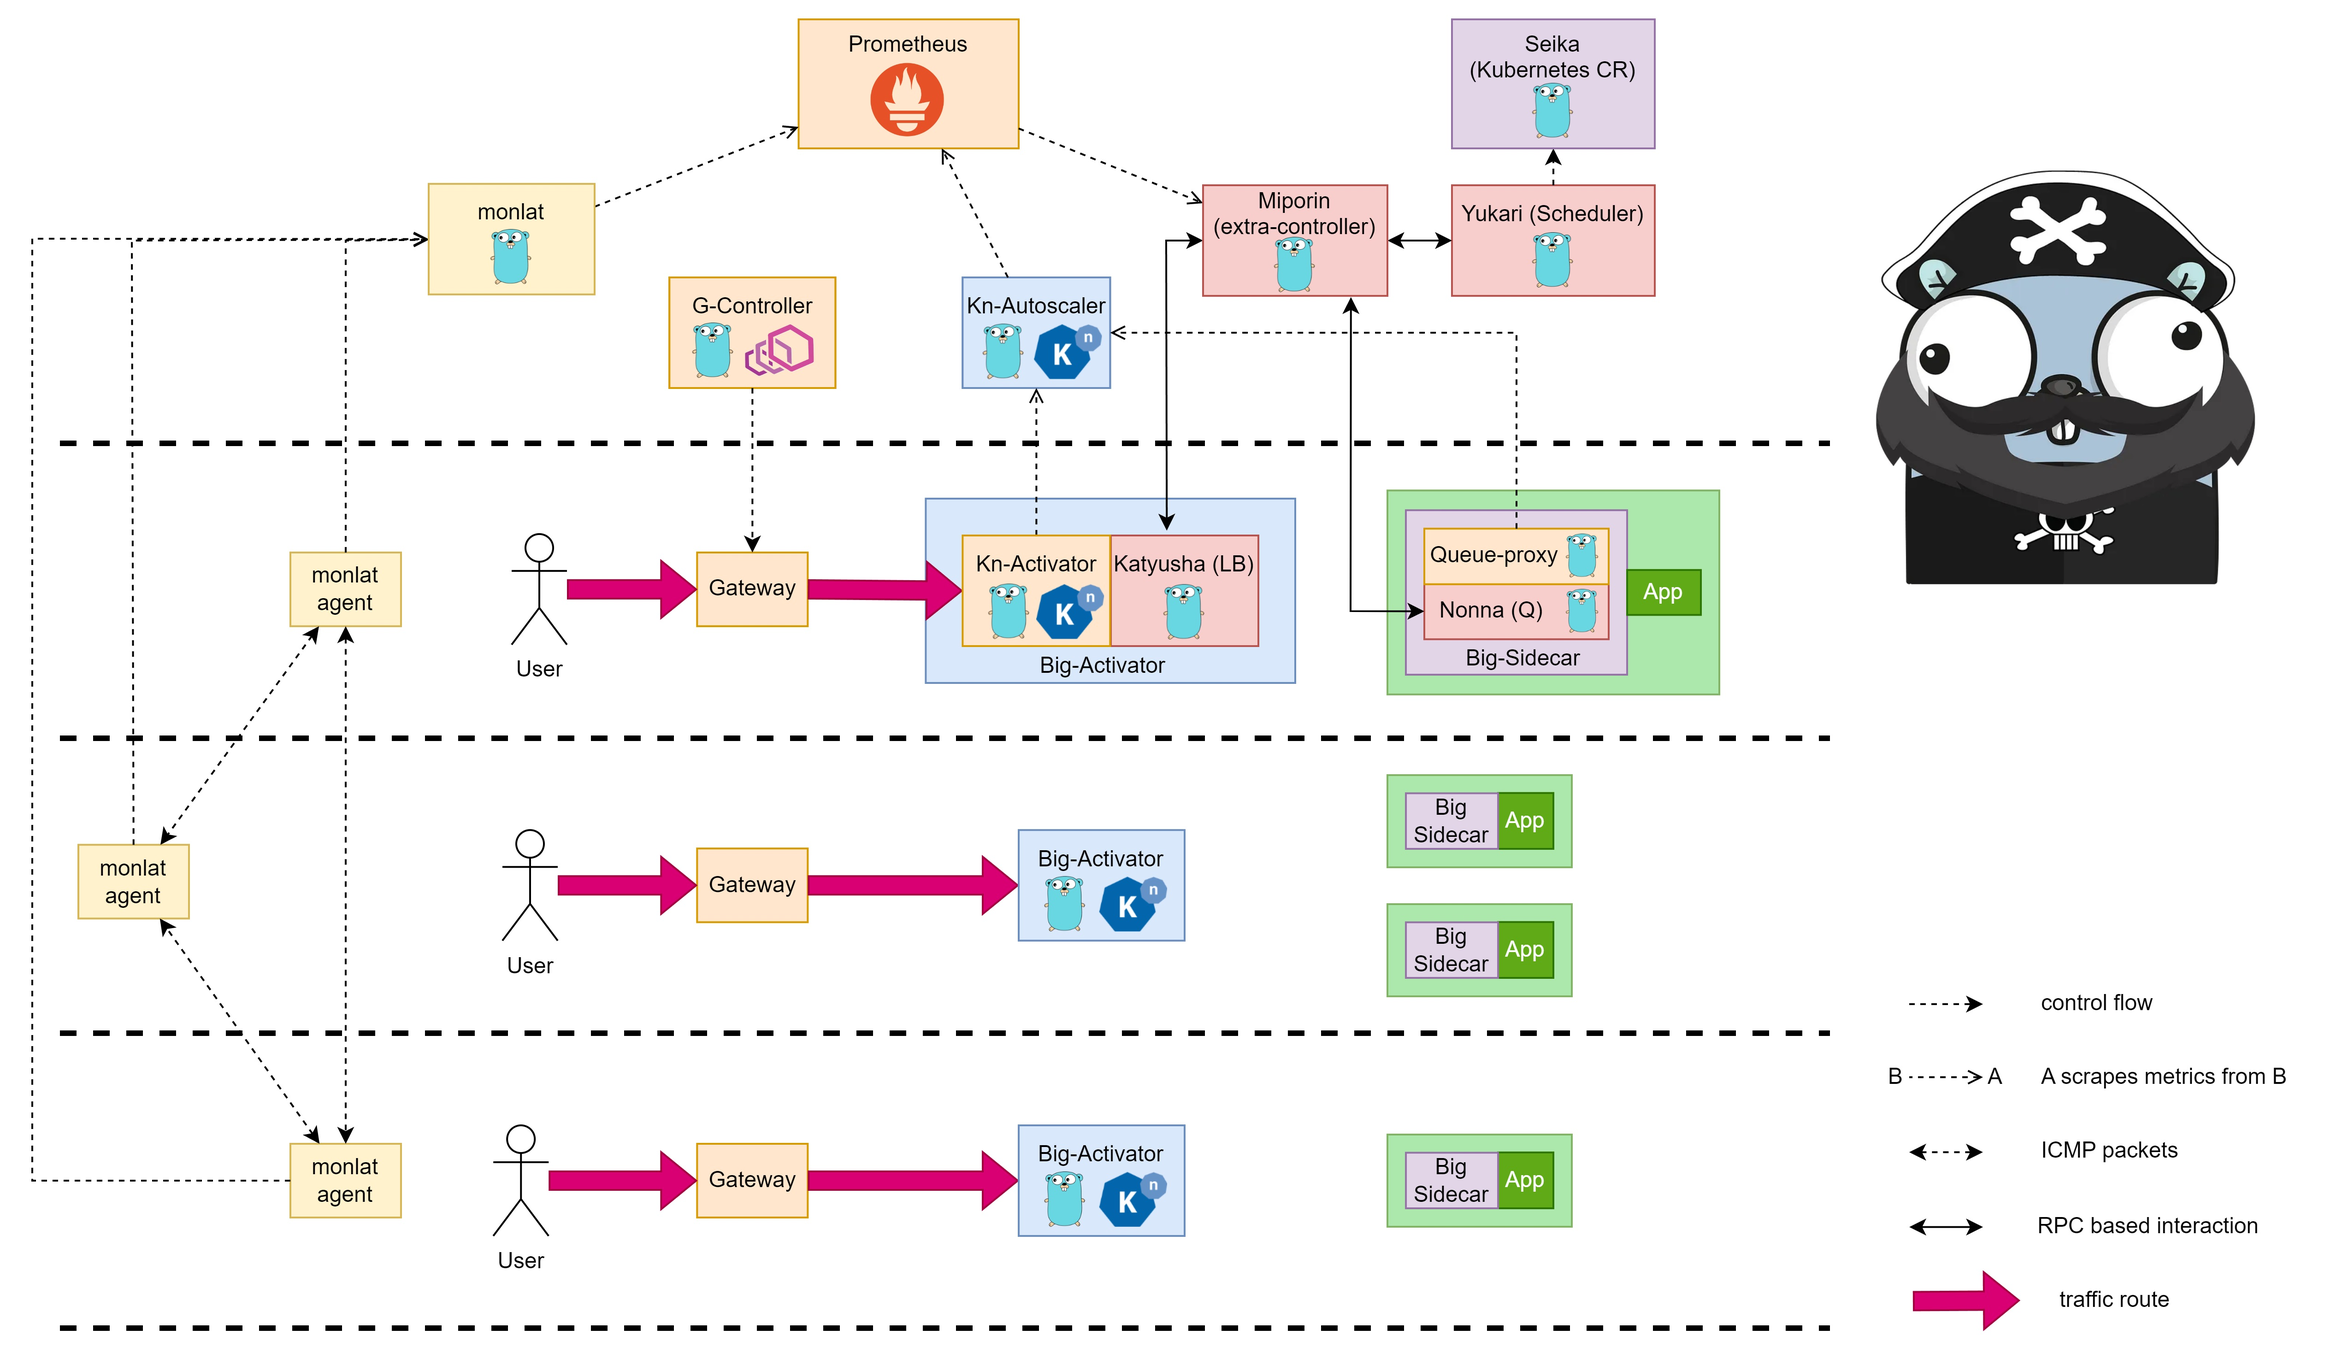
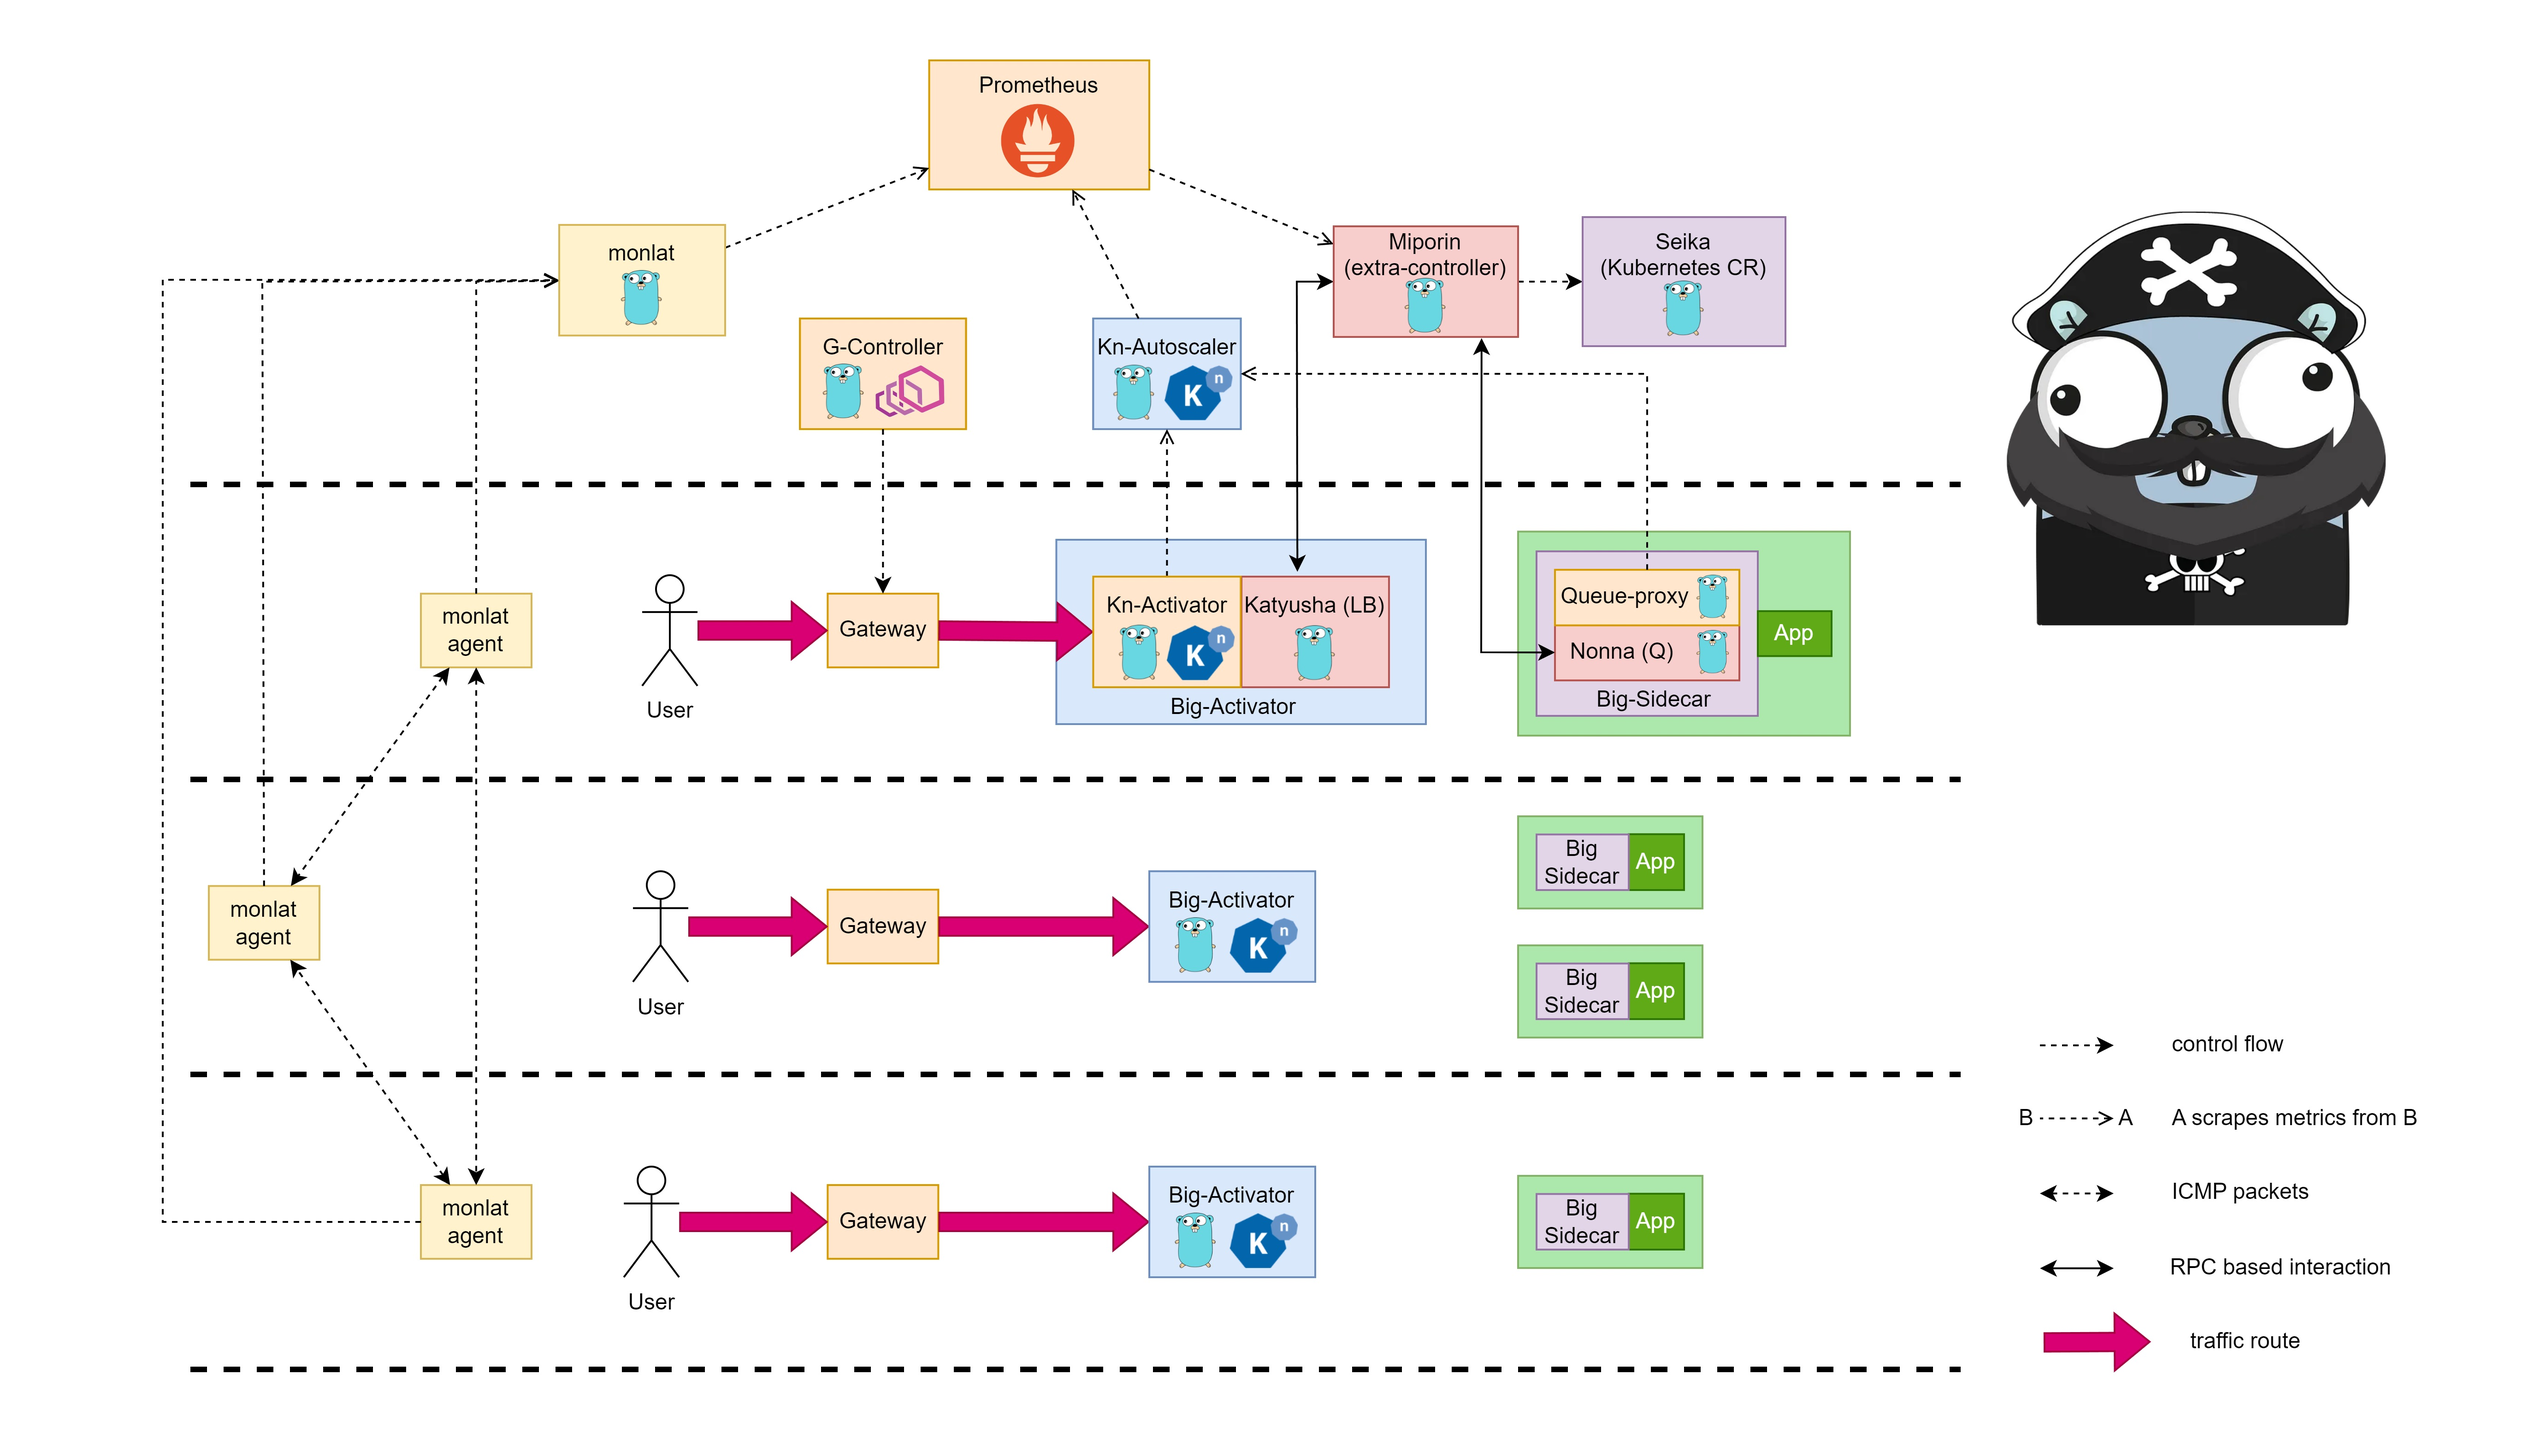
update docs: motivation and arch pic

diff --git a/README.md b/README.md
@@ -16,7 +16,7 @@
 [![Protobuf](https://img.shields.io/badge/Protobuf-log?style=for-the-badge&logo=nani&logoColor=green&labelColor=red&color=darkgreen)](https://protobuf.dev/)
 
 
-`ikukantai` is a Knative Serving based Serverless Platform designed for Distributed System.
+`ikukantai` is a Knative Serving based Serverless Platform designed for Distributed Computing Infrastructure. `ikukantai` is easy-to-develop platform supports research and the integration of Load-Balancing, Scheduling and Queuing algorithms in Container Virtualization environment.
 
 `ANNOUNCEMENT`: **`ikukantai`'s publication has been accepted at IEEE CloudNet Conference 2024 (International Conference on Cloud Networking)**
 
@@ -24,17 +24,17 @@
 
 ## 1. Motivation
 
-By default, **Kubernetes** and **Knative** uses "Evenly Load Balance Algorithms" in order to steer traffic to Pods/Functions. This mechanism is effective in a stable and homogeneous computing environment (like Cloud Computing). It should be noted that, "Evenly Load Balance Algorithms" in Kubernetes and Knative works with different algorithm, but the results are the same.
+Container virtualization is becoming an inevitable trend in modern computing and infrastructure technology. Since its release in 2014, **Kubernetes** has established itself as the de facto standard for application deployment and system operations in the industry. Numerous projects under the CNCF umbrella have further strengthened **Kubernetes**'s position in cloud computing. Knative, a serverless project nurtured within the CNCF ecosystem, has introduced scale-to-zero capabilities to **Kubernetes**, offering new opportunities for resource optimization and sustainable energy solutions in the scientific community.
 
-In order to help Kubernetes and Knative operating better in Distributed System like Edge-Cloud, we developed a more intelligent routing mechanism which take care of network latency between nodes, and resources in each node, and .etc.
-
-Many related works work in deploying Knative in Edge-Cloud, but they are not unified-system approaches. They don’t clarify the latency that exists in Knative internally.
+The built-in Load-Balancing, Scheduling, Queuing algorithms implemented in both Vanilla **Kubernetes** and Vanilla Knative are designed for very general purposes but require significant improvements for specialized use cases. During [our research](docs/publication/CloudNet_2024.pdf) on deploying and evaluating Serverless technology in Edge-Cloud environment, we discovered that the Load-Balancing and Scheduling mechanism of **Kubernetes**/Knative is inadequate for such heterogeneous setups. `ikukantai` was born not only to address this issue but also to serve as a programmable platform that allows solving classic problems related to container Load-Balancing, Scheduling and Queing in the real testbed implementation approach while removing the complex programming barrier for scientists.
 
 In this project, we propose an approach that improves Knative from the inside, a Unified Serverless Platform for Distributed Systems. It is `ikukantai` (行く艦隊 - The iku Fleet - Hạm Đội Ikư - translated from Japanese).
 
 ## 2. Architecture
 
 ![Arch](docs/images/arch.jpg)
+
+To understand functions of modules: `monlat`, `Katyusha`, `Nonna`, `Seika` and `Miporin`, please jump to [5.`ikukantai` ecosystem](#ecosystem)
 
 ## 3. Installation
 
@@ -210,7 +210,7 @@ servicemonitor.monitoring.coreos.com/hello
 
 The Scheduling Algorithm is implemented in [miporin](https://github.com/bonavadeur/miporin), package `github.com/bonavadeur/miporin/pkg/yukari`. To enable Scheduling Feature of `ikukantai` Fleet, set config `ikukantai-miporin-enable-yukari: "true"` in `configmap/config-ikukantai`, namespace `default`
 
-## 5. `ikukantai` ecosystem
+## 5. `ikukantai` ecosystem <a name="ecosystem"></a>
 
 ### 5.1. Support tools
 
@@ -224,13 +224,11 @@ The following tools support `ikukantai` Fleet operation and can work independent
 
 `ikukantai` is closed-source, but you can exploit all extra power by using tanks deployed on the flight deck of the Fleet. We have a plan for developing 4 extra-components that make algorithm implementation easier in the near future.
 
-[Miporin](https://github.com/bonavadeur/miporin) - tank commander, the extra-controller working alongside and is independently of Knative's controller, written in Go
+[Miporin](https://github.com/bonavadeur/miporin) - tank commander, the extra-controller working alongside and is independently of Knative's controller. `miporin` also act as Scheduler of the Fleet. `miporin` is written in Go and release under Apache-2.0 License.
 
-[Nonna](https://github.com/bonavadeur/nonna) - Queuing Modifier Module on the Fleet, written in Go
+[Nonna](https://github.com/bonavadeur/nonna) - Queue Modifier Module on the Fleet, written in Go, released under Apache-2.0 License.
 
-[Yukari](https://github.com/bonavadeur/yukari) (comming soon) - Scheduling Algorithm Implementation Module on the Fleet, written in Go
-
-[Katyusha](https://github.com/bonavadeur/katyusha) (comming soon) - Load Balancing Algorithm Implementation Module on the Fleet, written in Go
+[Katyusha](https://github.com/bonavadeur/katyusha) (comming soon) - Load Balancing Algorithm Implementation Module on the Fleet, written in Go, will be released under Apache-2.0 License.
 
 Panzer vor!
 
